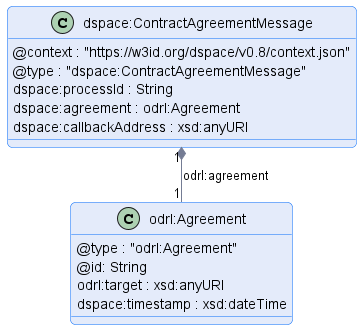
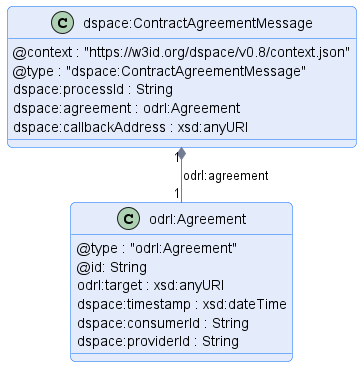
feat: add consumerId and providerId to ODRL agreement (#102)
* feat: add consumerId and providerId to ODRL agreement

* chore: update contract-agreement-message.png

Changed region(s): [[0.0, 0.0, 1.0, 1.0]]

diff --git a/negotiation/contract.negotiation.protocol.md b/negotiation/contract.negotiation.protocol.md
@@ -125,6 +125,11 @@ A `ContractAgreementMessage` must contain an ODRL `Agreement`.
 
 An `Agreement` must contain a `dspace:timestamp` property defined as an XSD DateTime type.  
 
+An `Agreement` must contain a `dspace:consumerId` and `dspace:providerId`. The contents of these
+properties are a dataspace-specific unique identifier of the contract agreement parties. Note that these
+identifiers are not necessarily the same as the identifiers of the participant agents negotiating the
+contract (i.e. the "connectors").
+
 ### 4. ContractAgreementVerificationMessage
 
 

diff --git a/negotiation/contract.negotiation.binding.https.md b/negotiation/contract.negotiation.binding.https.md
@@ -231,7 +231,9 @@ Authorization: ...
   "dspace:processId": "urn:uuid:a343fcbf-99fc-4ce8-8e9b-148c97605aab",
   "dspace:agreement": {
     "@type": "odrl:Agreement",
-    "@id": "e8dc8655-44c2-46ef-b701-4cffdc2faa44"
+    "@id": "e8dc8655-44c2-46ef-b701-4cffdc2faa44",
+    "dspace:consumerId": "...",
+    "dspace:providerId": "...",
     }
   }
 }
